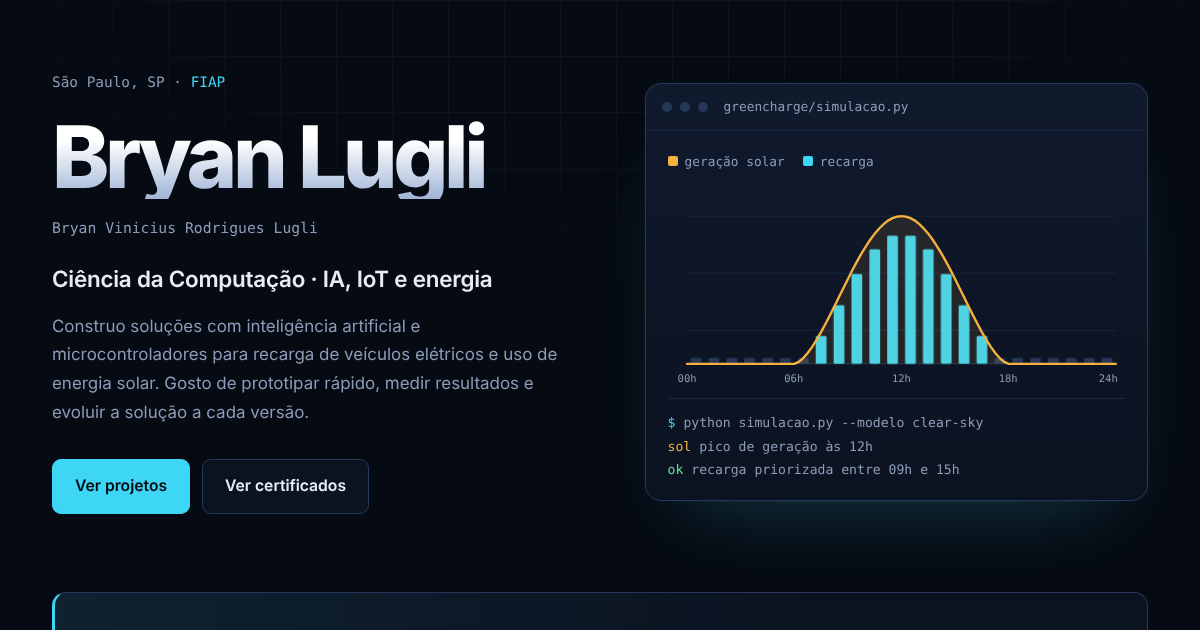
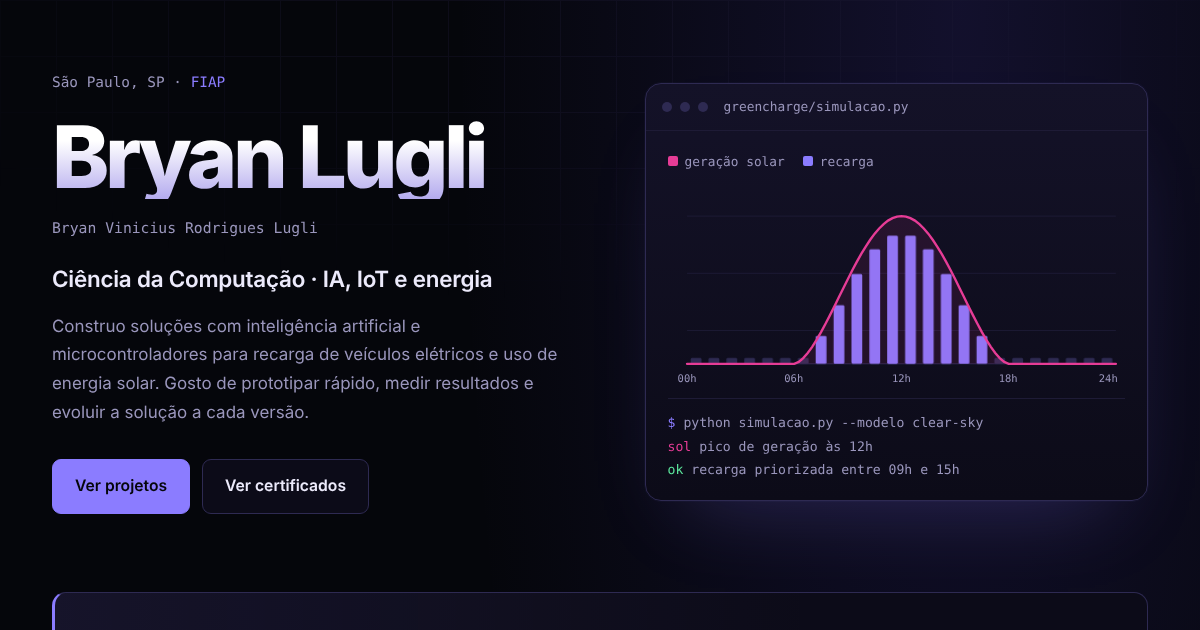
Muda a paleta do portfólio para roxo e magenta
Claude-Session: https://claude.ai/code/session_01VFLdoYynzwdEMMm9tjvrNG

diff --git a/index.html b/index.html
@@ -13,29 +13,29 @@
 <meta property="og:image:width" content="1200">
 <meta property="og:image:height" content="630">
 <meta name="twitter:card" content="summary_large_image">
-<meta name="theme-color" content="#060A12">
+<meta name="theme-color" content="#05060B">
 <link rel="preconnect" href="https://fonts.googleapis.com">
 <link rel="preconnect" href="https://fonts.gstatic.com" crossorigin>
 <link href="https://fonts.googleapis.com/css2?family=Sora:wght@400;500;600;700;800&family=JetBrains+Mono:wght@400;500&display=swap" rel="stylesheet">
 <style>
   :root{
-    --bg:#060A12;
-    --surface:#0B1220;
-    --surface-2:#101A2D;
-    --line:#1B2740;
-    --line-2:#26385A;
-    --text:#E6EDF7;
-    --muted:#8C9CB8;
-    --cyan:#3DD6F5;
-    --cyan-dim:rgba(61,214,245,.14);
-    --sun:#F5B13D;
+    --bg:#05060B;
+    --surface:#0C0B18;
+    --surface-2:#141228;
+    --line:#1E1B36;
+    --line-2:#2E2A52;
+    --text:#ECEAFB;
+    --muted:#9A96BC;
+    --cyan:#8B7CFF;
+    --cyan-dim:rgba(139,124,255,.14);
+    --sun:#E63C96;
     --head:"Sora", "Segoe UI", system-ui, sans-serif;
     --mono:"JetBrains Mono", ui-monospace, Consolas, monospace;
   }
   *{box-sizing:border-box;margin:0;padding:0}
   html{scroll-behavior:smooth}
   @media (prefers-reduced-motion:reduce){html{scroll-behavior:auto}*,*::before{animation:none!important;transition:none!important}}
-  body{background:var(--bg);color:var(--text);font-family:var(--head);font-size:1.02rem;line-height:1.7;-webkit-font-smoothing:antialiased}
+  body{background:radial-gradient(ellipse 60% 50% at 80% 0%,rgba(90,70,220,.16),transparent 70%) no-repeat,var(--bg);color:var(--text);font-family:var(--head);font-size:1.02rem;line-height:1.7;-webkit-font-smoothing:antialiased}
   a{color:inherit}
   ::selection{background:var(--cyan);color:var(--bg)}
   :focus-visible{outline:2px solid var(--cyan);outline-offset:3px;border-radius:6px}
@@ -50,7 +50,7 @@
     -webkit-mask-image:radial-gradient(ellipse 80% 60% at 50% 0%,#000 30%,transparent 80%);mask-image:radial-gradient(ellipse 80% 60% at 50% 0%,#000 30%,transparent 80%)}
 
   /* navegação */
-  header.nav{position:sticky;top:0;z-index:30;background:rgba(6,10,18,.78);backdrop-filter:blur(14px);-webkit-backdrop-filter:blur(14px);border-bottom:1px solid var(--line)}
+  header.nav{position:sticky;top:0;z-index:30;background:rgba(5,6,11,.78);backdrop-filter:blur(14px);-webkit-backdrop-filter:blur(14px);border-bottom:1px solid var(--line)}
   .nav-in{display:flex;align-items:center;justify-content:space-between;height:68px}
   .mark{font-family:var(--mono);font-weight:500;font-size:1rem;text-decoration:none;display:flex;align-items:center;gap:8px;color:var(--text)}
   .mark .p{color:var(--cyan)}
@@ -61,7 +61,7 @@
   nav a{display:block;text-decoration:none;font-size:.95rem;color:var(--muted);padding:8px 14px;border-radius:8px}
   nav a:hover{color:var(--text);background:var(--surface-2)}
   .nav-cta{margin-left:10px;text-decoration:none;font-weight:600;font-size:.92rem;color:var(--bg);background:var(--cyan);padding:9px 18px;border-radius:8px}
-  .nav-cta:hover{background:#7FE5F9}
+  .nav-cta:hover{background:#AFA4FF}
   .menu-btn{display:none;background:var(--surface);border:1px solid var(--line-2);border-radius:8px;padding:8px 14px;font:inherit;font-size:.92rem;font-weight:600;color:var(--text);cursor:pointer}
 
   /* hero */
@@ -70,19 +70,19 @@
   .path{font-family:var(--mono);font-size:.9rem;color:var(--muted)}
   .path b{color:var(--cyan);font-weight:500}
   h1{font-family:var(--head);font-weight:800;font-size:clamp(3rem,7.2vw,5.8rem);line-height:.95;letter-spacing:-.05em;margin:22px 0 16px;
-    background:linear-gradient(180deg,#FFFFFF 30%,#9FB4D6);-webkit-background-clip:text;background-clip:text;color:transparent}
+    background:linear-gradient(180deg,#FFFFFF 30%,#B4ABEE);-webkit-background-clip:text;background-clip:text;color:transparent}
   .fullname{font-family:var(--mono);font-size:.92rem;color:var(--muted)}
   .role{font-weight:600;font-size:clamp(1.15rem,2vw,1.4rem);color:var(--text);margin-top:20px;letter-spacing:-.01em}
   .lede{margin-top:14px;max-width:52ch;color:var(--muted);font-size:1.06rem}
   .cta{display:flex;flex-wrap:wrap;gap:12px;margin-top:32px}
   .btn{display:inline-flex;align-items:center;gap:10px;padding:13px 22px;border-radius:9px;font-weight:600;text-decoration:none;font-size:.98rem;border:1px solid var(--line-2);transition:background .15s,border-color .15s,color .15s}
   .btn.primary{background:var(--cyan);border-color:var(--cyan);color:var(--bg)}
-  .btn.primary:hover{background:#7FE5F9;border-color:#7FE5F9}
+  .btn.primary:hover{background:#AFA4FF;border-color:#AFA4FF}
   .btn.ghost{background:var(--surface);color:var(--text)}
   .btn.ghost:hover{border-color:var(--cyan)}
 
   /* painel/terminal */
-  .panel{background:linear-gradient(180deg,var(--surface-2),var(--surface));border:1px solid var(--line-2);border-radius:16px;overflow:hidden;box-shadow:0 40px 80px -40px rgba(61,214,245,.25),0 0 0 1px rgba(61,214,245,.04)}
+  .panel{background:linear-gradient(180deg,var(--surface-2),var(--surface));border:1px solid var(--line-2);border-radius:16px;overflow:hidden;box-shadow:0 40px 80px -40px rgba(139,124,255,.25),0 0 0 1px rgba(139,124,255,.04)}
   .panel-bar{display:flex;align-items:center;gap:8px;padding:12px 16px;border-bottom:1px solid var(--line);font-family:var(--mono);font-size:.8rem;color:var(--muted)}
   .panel-bar i{width:10px;height:10px;border-radius:50%;background:var(--line-2)}
   .panel-bar span{margin-left:8px}
@@ -109,7 +109,7 @@
 
   /* objetivo */
   .objective{padding:8px 0 0}
-  .obj-box{position:relative;border:1px solid var(--line-2);border-left:3px solid var(--cyan);border-radius:14px;background:linear-gradient(90deg,rgba(61,214,245,.08),transparent 70%),var(--surface);padding:32px 36px}
+  .obj-box{position:relative;border:1px solid var(--line-2);border-left:3px solid var(--cyan);border-radius:14px;background:linear-gradient(90deg,rgba(139,124,255,.08),transparent 70%),var(--surface);padding:32px 36px}
   .obj-box .tag{margin-bottom:12px}
   .obj-box p{font-size:clamp(1.1rem,1.8vw,1.32rem);line-height:1.6;font-weight:500;letter-spacing:-.01em;max-width:68ch;color:var(--text)}
   @media (max-width:600px){.obj-box{padding:24px 22px}}
@@ -137,17 +137,17 @@
   /* projetos */
   .feature{display:grid;grid-template-columns:1.1fr 1fr;border:1px solid var(--line-2);border-radius:18px;overflow:hidden;background:var(--surface);margin-bottom:20px}
   .feature-body{padding:40px}
-  .feature-side{padding:40px;background:linear-gradient(160deg,rgba(61,214,245,.10),rgba(61,214,245,0) 60%),var(--surface-2);border-left:1px solid var(--line-2)}
+  .feature-side{padding:40px;background:linear-gradient(160deg,rgba(139,124,255,.10),rgba(139,124,255,0) 60%),var(--surface-2);border-left:1px solid var(--line-2)}
   .feature-side h4{font-family:var(--mono);font-weight:500;font-size:.85rem;color:var(--muted);margin-bottom:18px}
   .sprints{list-style:none;counter-reset:s;position:relative}
   .sprints::before{content:"";position:absolute;left:15px;top:18px;bottom:18px;width:1px;background:var(--line-2)}
   .sprints li{counter-increment:s;position:relative;display:grid;grid-template-columns:32px 1fr;gap:16px;padding:12px 0}
   .sprints li::before{content:counter(s,decimal-leading-zero);position:relative;display:grid;place-items:center;width:32px;height:32px;border-radius:8px;border:1px solid var(--line-2);background:var(--surface);font-family:var(--mono);font-size:.78rem;color:var(--muted)}
-  .sprints li:last-child::before{border-color:var(--cyan);color:var(--cyan);box-shadow:0 0 18px rgba(61,214,245,.35)}
+  .sprints li:last-child::before{border-color:var(--cyan);color:var(--cyan);box-shadow:0 0 18px rgba(139,124,255,.35)}
   .sprints b{display:block;font-weight:600;font-size:.98rem}
   .sprints span{color:var(--muted);font-size:.92rem;line-height:1.5}
   .p-ctx{display:inline-block;font-family:var(--mono);font-size:.78rem;color:var(--cyan);background:var(--cyan-dim);padding:4px 10px;border-radius:6px;margin-bottom:16px}
-  .p-ctx.sun{color:var(--sun);background:rgba(245,177,61,.12)}
+  .p-ctx.sun{color:var(--sun);background:rgba(230,60,150,.12)}
   .proj h3{font-weight:700;font-size:clamp(1.55rem,2.6vw,2.1rem);letter-spacing:-.03em;line-height:1.1;margin-bottom:12px}
   .proj p{color:var(--muted)}
   .stack{display:flex;flex-wrap:wrap;gap:7px;list-style:none;margin:22px 0 26px}
@@ -187,14 +187,14 @@
 
   /* modal do certificado */
   dialog{border:1px solid var(--line-2);border-radius:16px;background:var(--surface);color:var(--text);padding:0;max-width:min(980px,94vw);width:100%}
-  dialog::backdrop{background:rgba(3,6,12,.82);backdrop-filter:blur(4px)}
+  dialog::backdrop{background:rgba(3,3,8,.82);backdrop-filter:blur(4px)}
   dialog img{display:block;width:100%;height:auto}
   .dlg-bar{display:flex;justify-content:space-between;align-items:center;gap:16px;padding:14px 18px;border-top:1px solid var(--line)}
   .dlg-bar p{font-family:var(--mono);font-size:.82rem;color:var(--muted);overflow-wrap:anywhere}
   .dlg-bar button{font:inherit;font-weight:600;font-size:.9rem;background:var(--cyan);color:var(--bg);border:0;border-radius:8px;padding:8px 16px;cursor:pointer;flex-shrink:0}
 
   /* contato */
-  .contact{border-top:1px solid var(--line);background:radial-gradient(ellipse 70% 80% at 50% 120%,rgba(61,214,245,.12),transparent 70%);padding:110px 0 48px}
+  .contact{border-top:1px solid var(--line);background:radial-gradient(ellipse 70% 80% at 50% 120%,rgba(139,124,255,.12),transparent 70%);padding:110px 0 48px}
   .links{display:grid;grid-template-columns:repeat(3,1fr);gap:16px}
   .links a,.links button.link{display:flex;flex-direction:column;gap:6px;padding:24px;border-radius:14px;border:1px solid var(--line-2);background:var(--surface);color:var(--text);text-decoration:none;font:inherit;text-align:left;cursor:pointer;transition:border-color .15s}
   .links a:hover,.links button.link:hover{border-color:var(--cyan)}
@@ -269,12 +269,12 @@
         <div class="panel-body">
           <div class="legend"><span><i style="background:var(--sun)"></i>geração solar</span><span><i style="background:var(--cyan)"></i>recarga</span></div>
           <svg class="chart" viewBox="0 0 480 220" role="img" aria-label="Curva de geração solar entre 6h e 18h e barras de recarga mais altas perto do meio-dia">
-            <g stroke="#1B2740" stroke-width="1"><line x1="20" y1="40" x2="470" y2="40"/><line x1="20" y1="100" x2="470" y2="100"/><line x1="20" y1="160" x2="470" y2="160"/></g>
-            <line x1="20" y1="195" x2="470" y2="195" stroke="#26385A" stroke-width="1"/>
+            <g stroke="#1E1B36" stroke-width="1"><line x1="20" y1="40" x2="470" y2="40"/><line x1="20" y1="100" x2="470" y2="100"/><line x1="20" y1="160" x2="470" y2="160"/></g>
+            <line x1="20" y1="195" x2="470" y2="195" stroke="#2E2A52" stroke-width="1"/>
             <g id="bars"></g>
-            <path id="sunfill" fill="rgba(245,177,61,.10)"/>
-            <path id="suncurve" class="curve" fill="none" stroke="#F5B13D" stroke-width="2.5" stroke-linecap="round"/>
-            <g font-family="JetBrains Mono, monospace" font-size="11" fill="#8C9CB8" text-anchor="middle">
+            <path id="sunfill" fill="rgba(230,60,150,.10)"/>
+            <path id="suncurve" class="curve" fill="none" stroke="#E63C96" stroke-width="2.5" stroke-linecap="round"/>
+            <g font-family="JetBrains Mono, monospace" font-size="11" fill="#9A96BC" text-anchor="middle">
               <text x="20" y="214">00h</text><text x="132" y="214">06h</text><text x="245" y="214">12h</text><text x="357" y="214">18h</text><text x="462" y="214">24h</text>
             </g>
           </svg>
@@ -506,7 +506,7 @@
     var r=document.createElementNS(ns,'rect');
     r.setAttribute('x',(X(i)+step*.2).toFixed(1));r.setAttribute('y',(base-hgt).toFixed(1));
     r.setAttribute('width',w.toFixed(1));r.setAttribute('height',hgt.toFixed(1));r.setAttribute('rx','1.5');
-    r.setAttribute('fill',on?'#3DD6F5':'#26385A');r.setAttribute('class','bar');
+    r.setAttribute('fill',on?'#8B7CFF':'#2E2A52');r.setAttribute('class','bar');
     r.style.animationDelay=(.6+i*.04)+'s';g.appendChild(r);
   }
 
